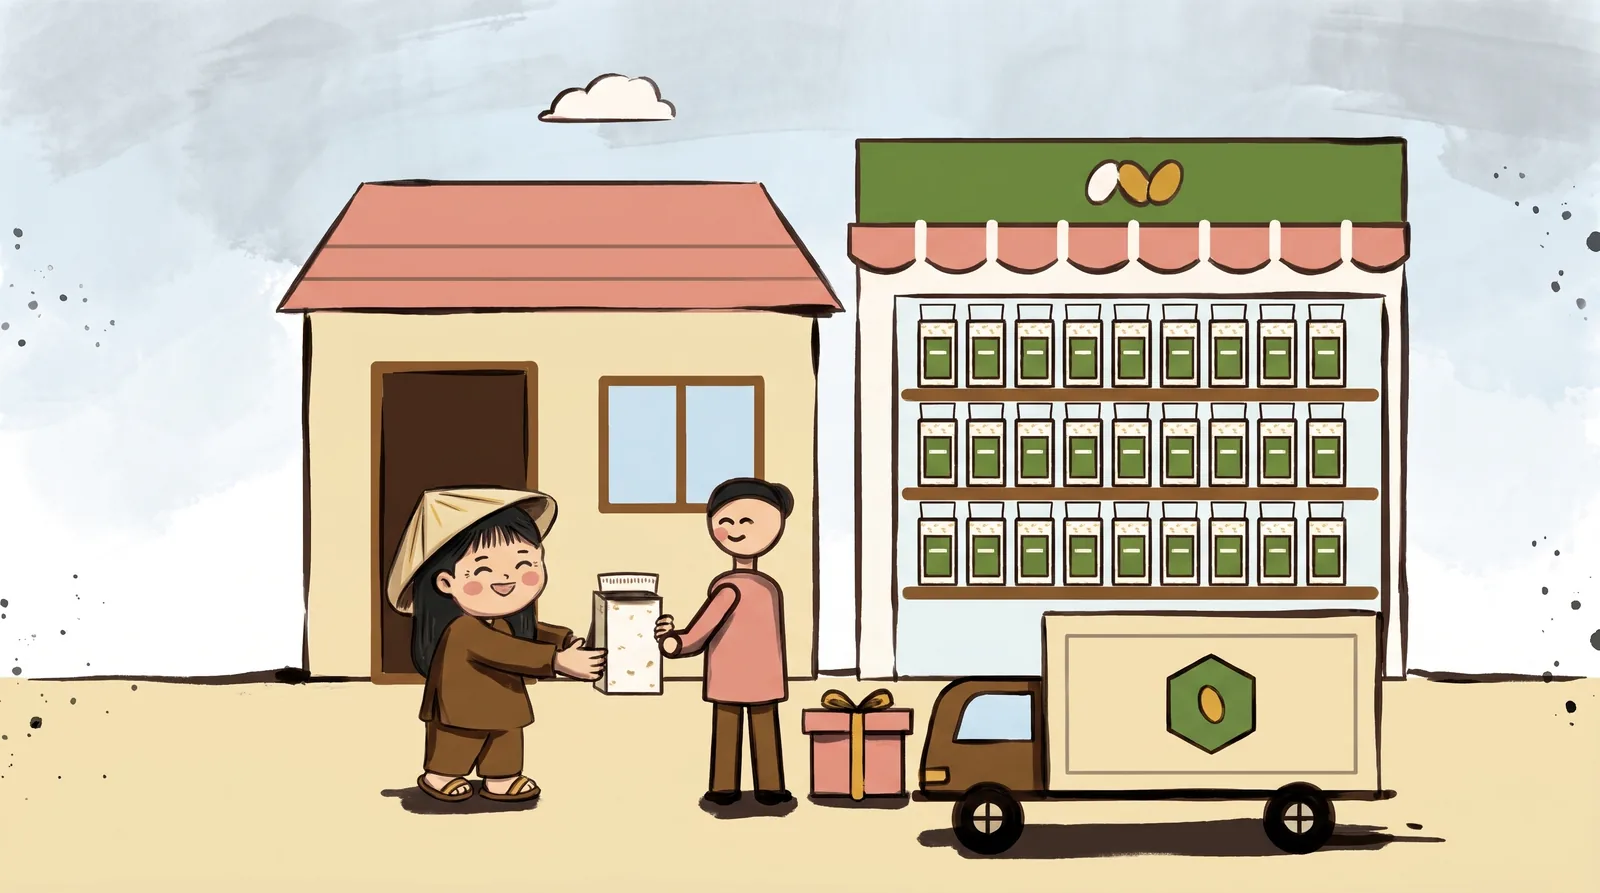
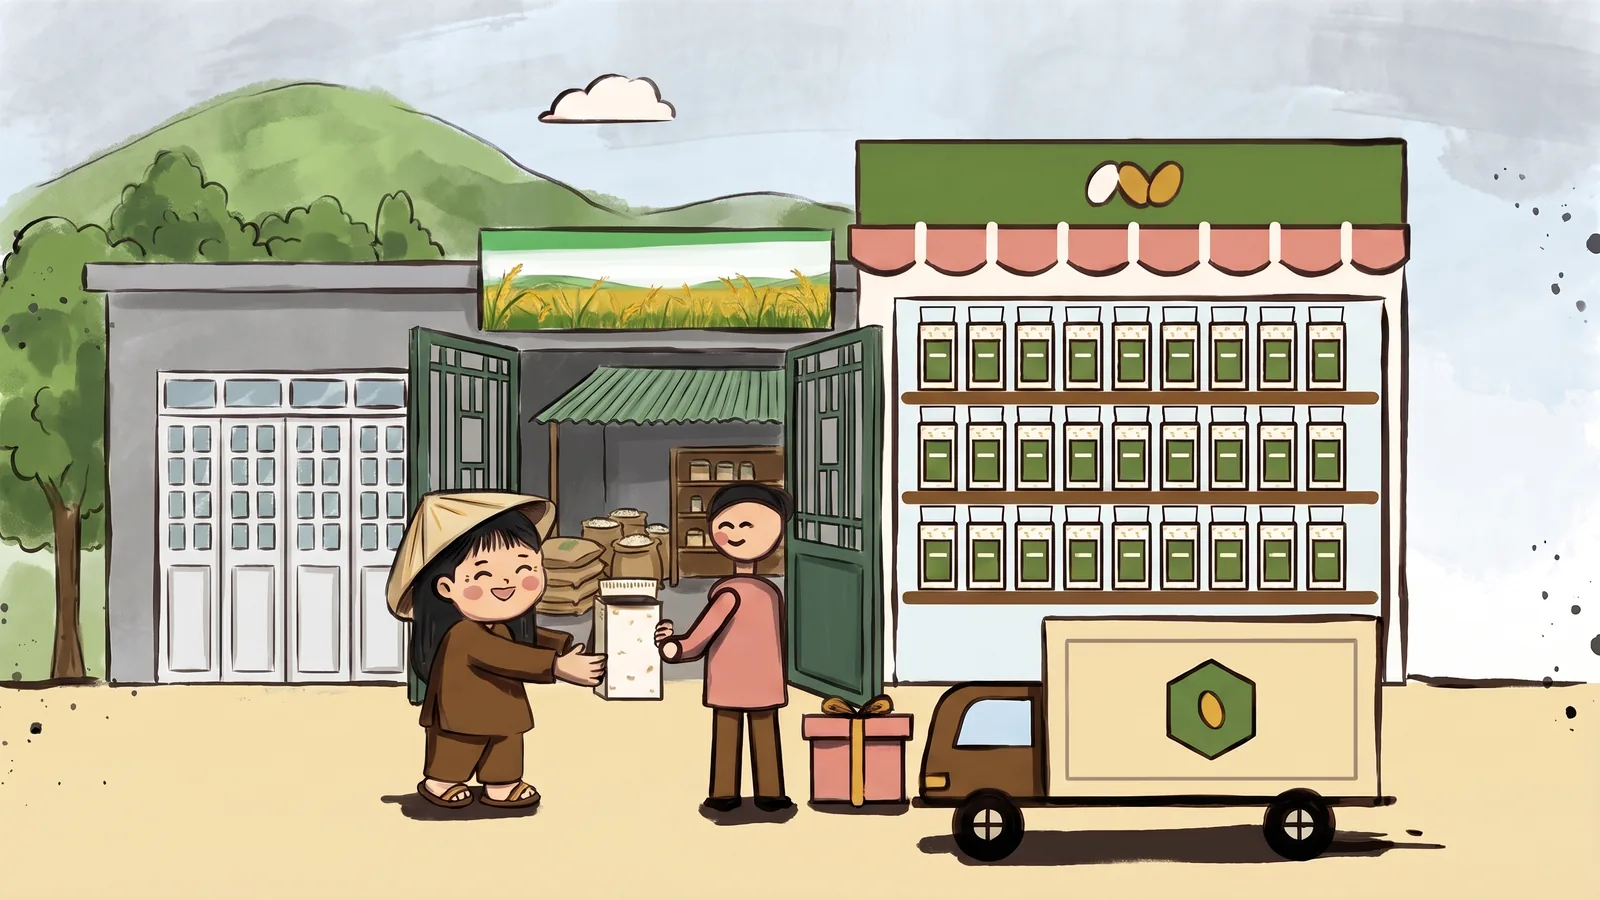
web: journey step 7 shows the family rice workshop instead of a house

diff --git a/docs/session/log/2026-11-05-may-desktop-hanh-trinh-manhua.md b/docs/session/log/2026-11-05-may-desktop-hanh-trinh-manhua.md
@@ -18,6 +18,7 @@
 - Chủ dự án: nút "Xem hành trình" ở hero trỏ tới khối quy trình, với chữ đẹp hơn. Báo lỗi: bấm link tới `#tu-hat-lua`, kéo lên đầu trang, bấm lại thì không cuộn tới nữa.
 - Xem chữ "Từ đồng tới mâm cơm", chủ dự án: "từ cánh đồng tới mâm cơm ỏ ngắn hơn i" → chủ dự án gợi ý thêm "câu chuyện ..." → chữ nút hero: "Chuyện hạt nếp" (tiếng Anh "A grain's story"); không dùng "Câu chuyện" ở đầu vì trùng tên mục blog "Câu chuyện" trên menu.
 
+- Chủ dự án: vẽ lại cảnh bước 7 (Đến tay khách): ngôi nhà trong tranh phải là xưởng sản xuất gạo của gia đình, theo ảnh chủ dự án gửi (nhà một tầng tường xi măng xám, cửa sổ trắng, cổng sắt xanh hai cánh, biển hiệu xanh trắng trên cổng, xưởng mái tôn xanh phía sau, đồi cây sau lưng). Ảnh có tên hợp tác xã và số điện thoại: không vẽ chữ, không đưa ảnh vào repo, không gửi ảnh lên dịch vụ vẽ.
 ## Quyết định
 - Cảnh hành trình: màu phẳng, nét mực manhua, 9 bản phác đã duyệt — `docs/decisions/0014-hanh-trinh-net-muc.md`.
 
@@ -26,6 +27,7 @@
 - Nối tranh vào web và làm chuyển động: làm sau.
 
 ## Đã làm
+- Vẽ lại cảnh bước 7 với xưởng sản xuất gạo theo ảnh (biển hiệu không có chữ); thay ảnh trên web và trong bản phác, chép luôn vào bản xem thử đang chạy. Thêm 1 ảnh Pro, khoảng 0,13 USD.
 - Chủ dự án cho phép mở tunnel và tắt server cũ cổng 3300. Link xem thử mới: https://gods-corresponding-opened-solid.trycloudflare.com/vi (bản build từ PR #34, dữ liệu mẫu); đã mở ở 375 px qua link, 8 ảnh tải đủ, không tràn ngang.
 - Nút thứ hai ở hero đổi thành "Chuyện hạt nếp" (tiếng Anh "A grain's story"), trỏ tới `#tu-hat-lua`, luôn hiện. Sửa lỗi bấm lại link cùng `#`: Next.js coi đó là không đổi địa chỉ nên không cuộn; thêm `SectionLink` tự cuộn tới khối trong đúng trường hợp đó (menu và nút hero).
 - Web dùng 8 bản phác (WebP 1200 × 675), thêm mục menu "Quy trình" tới `#tu-hat-lua`, proxy cho qua `/story/*.webp`; PR #34. Repo không cho bật auto-merge, nên merge tay khi CI đạt. Mở Cloudflare tunnel bị chặn bởi bộ lọc quyền của Claude: chủ dự án tự mở tunnel hoặc cho phép.
